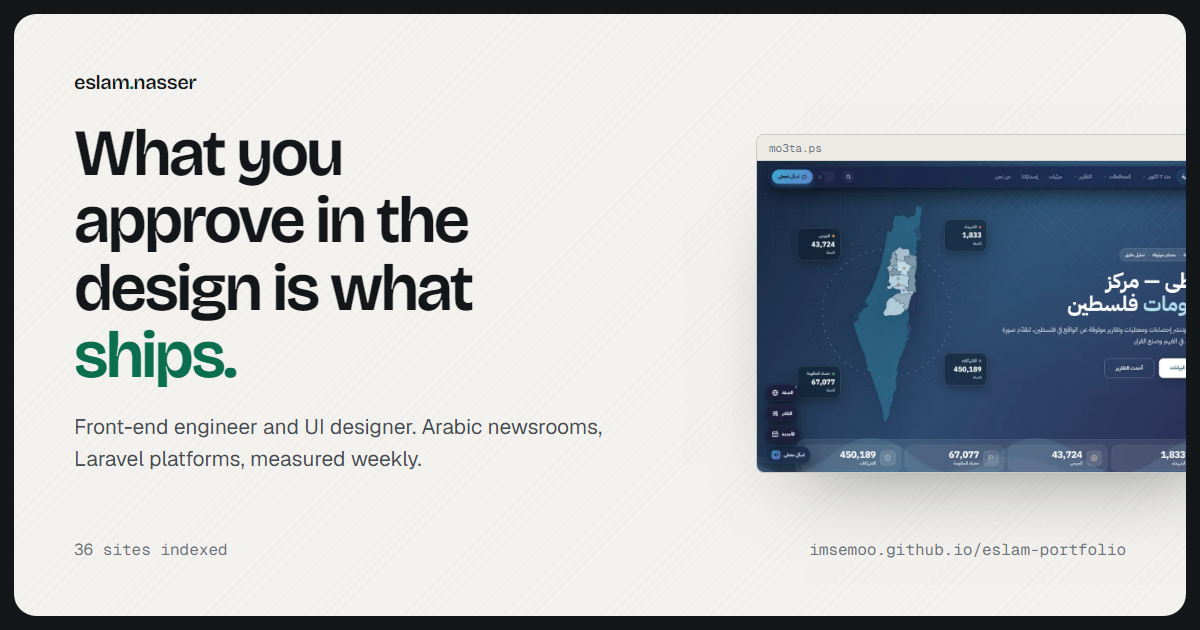
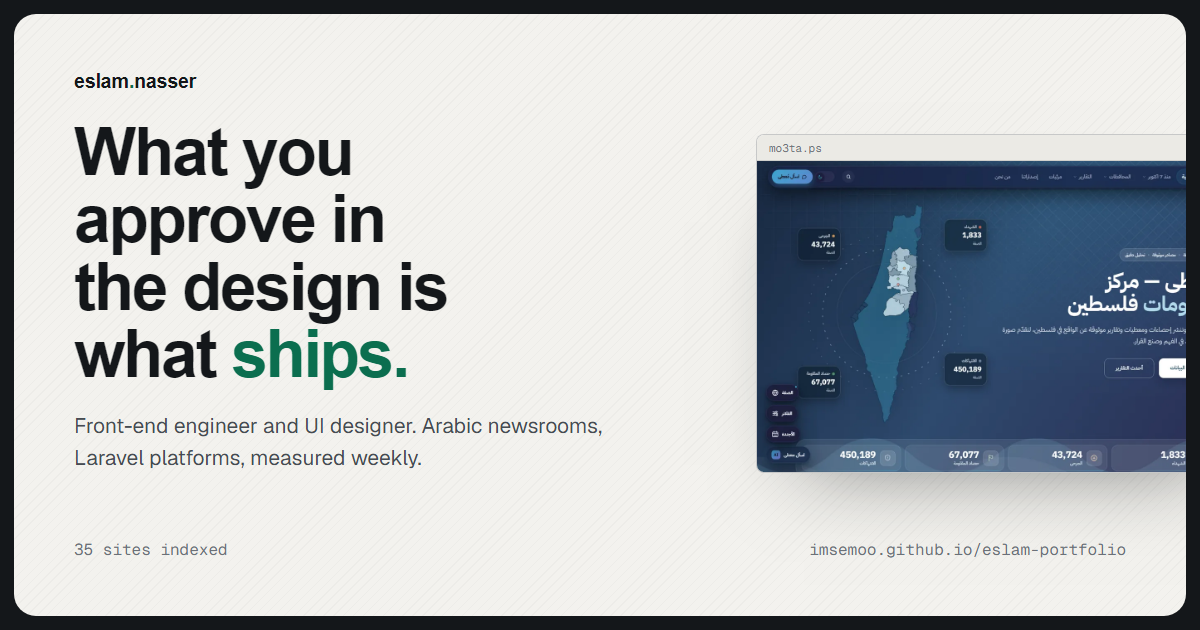
Drop Bawabtak from the index
The project is not finished, so it does not belong in a list of shipped work.
The index count and the share image follow.

Changed region(s): [[0.0617, 0.181, 0.4008, 0.6333], [0.0617, 0.6635, 0.4933, 0.754], [0.0617, 0.1206, 0.185, 0.1508]]

diff --git a/index.html b/index.html
@@ -1567,7 +1567,7 @@ transform: none;
   <div class="shell">
     <dl class="hero__data" data-reveal-group>
       <div class="datum" data-reveal-item><dt>Years in production</dt><dd class="mono">7+</dd></div>
-      <div class="datum" data-reveal-item><dt>Sites in the index</dt><dd class="mono">36</dd></div>
+      <div class="datum" data-reveal-item><dt>Sites in the index</dt><dd class="mono">35</dd></div>
       <div class="datum" data-reveal-item><dt><svg class="icon icon--brand" aria-hidden="true"><use href="#i-upwork"/></svg> Job success on Upwork</dt><dd class="mono">100%</dd></div>
       <div class="datum" data-reveal-item><dt><svg class="icon icon--brand icon--wide" aria-hidden="true"><use href="#i-mostaql"/></svg> Rating on Mostaql</dt><dd class="mono">5.0</dd></div>
     </dl>
@@ -1578,11 +1578,11 @@ transform: none;
   <div class="shell">
     <div class="section-head" data-reveal>
       <h2 id="index-title">Every site, and what I did on it.</h2>
-      <p class="lede">36 projects, 31 of them live. Filter by stack or language. The five featured rows open a case study on this page; the rest open the site itself.</p>
+      <p class="lede">35 projects, 31 of them live. Filter by stack or language. The five featured rows open a case study on this page; the rest open the site itself.</p>
     </div>
     <div class="index__bar" data-reveal>
-      <div class="filters" role="group" aria-label="Filter the index"><button class="chip" type="button" data-filter="all" aria-pressed="true">Everything <span class="chip__n mono">36</span></button><button class="chip" type="button" data-filter="laravel" aria-pressed="false">Laravel and Livewire <span class="chip__n mono">13</span></button><button class="chip" type="button" data-filter="vue" aria-pressed="false">Vue <span class="chip__n mono">2</span></button><button class="chip" type="button" data-filter="wordpress" aria-pressed="false">WordPress <span class="chip__n mono">7</span></button><button class="chip" type="button" data-filter="frontend" aria-pressed="false">Hand-built front-ends <span class="chip__n mono">16</span></button><button class="chip" type="button" data-filter="design" aria-pressed="false">Designed by me <span class="chip__n mono">15</span></button><button class="chip" type="button" data-filter="english" aria-pressed="false">English sites <span class="chip__n mono">22</span></button><button class="chip" type="button" data-filter="rtl" aria-pressed="false">Arabic and RTL <span class="chip__n mono">19</span></button><button class="chip" type="button" data-filter="product" aria-pressed="false">Own products <span class="chip__n mono">3</span></button></div>
-      <p class="index__count mono" aria-live="polite"><span data-count>36</span> shown</p>
+      <div class="filters" role="group" aria-label="Filter the index"><button class="chip" type="button" data-filter="all" aria-pressed="true">Everything <span class="chip__n mono">35</span></button><button class="chip" type="button" data-filter="laravel" aria-pressed="false">Laravel and Livewire <span class="chip__n mono">13</span></button><button class="chip" type="button" data-filter="vue" aria-pressed="false">Vue <span class="chip__n mono">2</span></button><button class="chip" type="button" data-filter="wordpress" aria-pressed="false">WordPress <span class="chip__n mono">7</span></button><button class="chip" type="button" data-filter="frontend" aria-pressed="false">Hand-built front-ends <span class="chip__n mono">15</span></button><button class="chip" type="button" data-filter="design" aria-pressed="false">Designed by me <span class="chip__n mono">14</span></button><button class="chip" type="button" data-filter="english" aria-pressed="false">English sites <span class="chip__n mono">21</span></button><button class="chip" type="button" data-filter="rtl" aria-pressed="false">Arabic and RTL <span class="chip__n mono">18</span></button><button class="chip" type="button" data-filter="product" aria-pressed="false">Own products <span class="chip__n mono">3</span></button></div>
+      <p class="index__count mono" aria-live="polite"><span data-count>35</span> shown</p>
     </div>
     <ol class="rows" data-rows>
       <li class="row row--t1" data-tags="frontend english" data-preview="img/work/ozcar-600.webp"><span class="row__n mono" aria-hidden="true"></span><span class="row__thumb"><img src="img/work/ozcar-thumb.webp" width="240" height="150" alt="" loading="lazy" decoding="async"></span><div class="row__main"><a class="row__link" href="#case-ozcar"><span class="row__name">OzCar</span></a><span class="row__client">Car marketplace and dealer group<span class="row__where">Australia</span></span></div><span class="row__role">Front-end, from Adobe XD to production</span><span class="row__stack"><span class="tag">HTML</span><span class="tag">SCSS</span><span class="tag">JavaScript</span><span class="tag">jQuery</span></span><span class="row__lang mono" title="English">EN</span><a class="row__ext" href="https://www.ozcar.com.au/" target="_blank" rel="noopener" aria-label="Open ozcar.com.au"><svg class="icon" aria-hidden="true" focusable="false"><use href="#i-arrow-up-right"/></svg></a></li>
@@ -1618,7 +1618,6 @@ transform: none;
 <li class="row row--t3" data-tags="frontend rtl" data-preview="img/work/mohajer-600.webp"><span class="row__n mono" aria-hidden="true"></span><span class="row__thumb"><img src="img/work/mohajer-thumb.webp" width="240" height="150" alt="" loading="lazy" decoding="async"></span><div class="row__main"><a class="row__link" href="https://imsemoo.github.io/mohajer/" target="_blank" rel="noopener"><span class="row__name">Al-Mohajer <span class="ar">المهاجر</span></span></a><span class="row__client">News for migrants and refugees<span class="row__where">Egypt</span></span></div><span class="row__role">Front-end, six page templates</span><span class="row__stack"><span class="tag">HTML</span><span class="tag">Bootstrap</span><span class="tag">RTL</span></span><span class="row__lang mono" title="Arabic">AR</span><span class="row__ext" aria-hidden="true"><svg class="icon" aria-hidden="true" focusable="false"><use href="#i-arrow-up-right"/></svg></span></li>
 <li class="row row--t3" data-tags="frontend english"><span class="row__n mono" aria-hidden="true"></span><span class="row__thumb row__thumb--empty mono" aria-hidden="true" data-initial="C"></span><div class="row__main"><span class="row__name">Calimero</span><span class="row__client">Restaurant and shop<span class="row__where">Germany</span></span></div><span class="row__role">Front-end, in a team, over a year</span><span class="row__stack"><span class="tag">Next.js</span><span class="tag">TypeScript</span></span><span class="row__lang mono" title="English">EN</span></li>
 <li class="row row--t3" data-tags="laravel vue rtl"><span class="row__n mono" aria-hidden="true"></span><span class="row__thumb row__thumb--empty mono" aria-hidden="true" data-initial="Y"></span><div class="row__main"><a class="row__link" href="https://github.com/imsemoo/yassiru" target="_blank" rel="noopener"><span class="row__name">Yassiru <span class="ar">يسّروا</span></span></a><span class="row__client">Marriage-support platform</span></div><span class="row__role">Full-stack, open source</span><span class="row__stack"><span class="tag">Laravel</span><span class="tag">Vue</span><span class="tag">Docker</span><span class="tag">Sanctum</span></span><span class="row__lang mono" title="Arabic">AR</span><span class="row__ext" aria-hidden="true"><svg class="icon" aria-hidden="true" focusable="false"><use href="#i-arrow-up-right"/></svg></span></li>
-<li class="row row--t3" data-tags="frontend design rtl english"><span class="row__n mono" aria-hidden="true"></span><span class="row__thumb row__thumb--empty mono" aria-hidden="true" data-initial="B"></span><div class="row__main"><a class="row__link" href="https://github.com/imsemoo/bwabtek" target="_blank" rel="noopener"><span class="row__name">Bawabtak <span class="ar">بوابتك</span></span></a><span class="row__client">Bilingual landing page</span></div><span class="row__role">Design and front-end, open source</span><span class="row__stack"><span class="tag">HTML</span><span class="tag">CSS</span><span class="tag">ES modules</span><span class="tag">Python</span></span><span class="row__lang mono" title="Arabic and English">AR/EN</span><span class="row__ext" aria-hidden="true"><svg class="icon" aria-hidden="true" focusable="false"><use href="#i-arrow-up-right"/></svg></span></li>
 <li class="row row--t3" data-tags="frontend rtl english"><span class="row__n mono" aria-hidden="true"></span><span class="row__thumb row__thumb--empty mono" aria-hidden="true" data-initial="Y"></span><div class="row__main"><a class="row__link" href="https://github.com/imsemoo/yottasrc" target="_blank" rel="noopener"><span class="row__name">Yottasrc</span></a><span class="row__client">Web-hosting provider</span></div><span class="row__role">Front-end, open source</span><span class="row__stack"><span class="tag">HTML</span><span class="tag">SCSS</span><span class="tag">JavaScript</span></span><span class="row__lang mono" title="Arabic and English">AR/EN</span><span class="row__ext" aria-hidden="true"><svg class="icon" aria-hidden="true" focusable="false"><use href="#i-arrow-up-right"/></svg></span></li>
 <li class="row row--t3" data-tags="frontend design english"><span class="row__n mono" aria-hidden="true"></span><span class="row__thumb row__thumb--empty mono" aria-hidden="true" data-initial="C"></span><div class="row__main"><a class="row__link" href="https://github.com/imsemoo/creatives-dashboard" target="_blank" rel="noopener"><span class="row__name">Creatives Dashboard</span></a><span class="row__client">Dashboard UI kit</span></div><span class="row__role">UI, open source</span><span class="row__stack"><span class="tag">HTML</span><span class="tag">CSS</span><span class="tag">JavaScript</span></span><span class="row__lang mono" title="English">EN</span><span class="row__ext" aria-hidden="true"><svg class="icon" aria-hidden="true" focusable="false"><use href="#i-arrow-up-right"/></svg></span></li>
     </ol>
